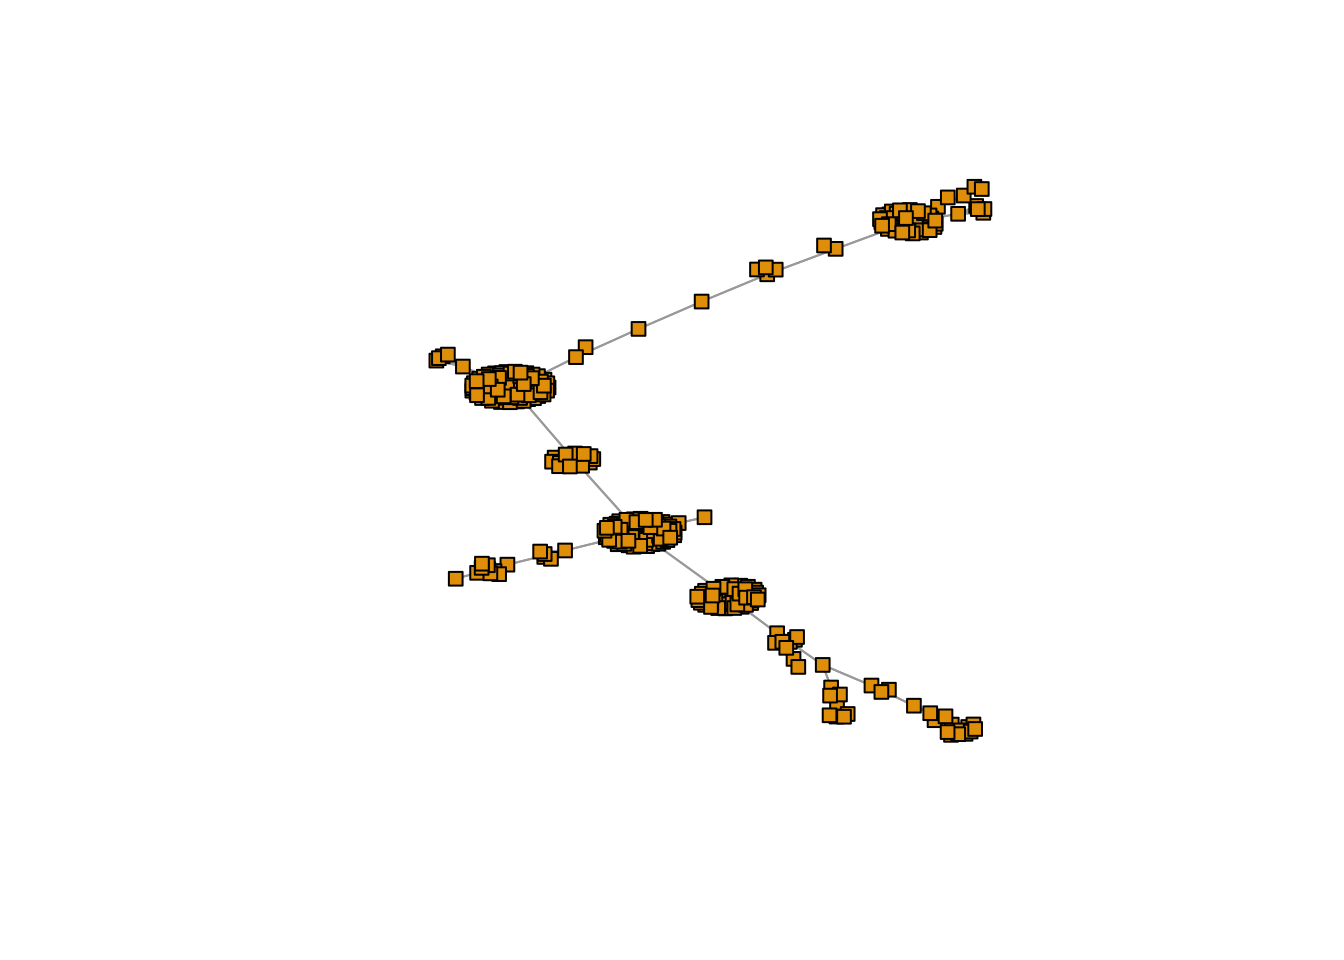
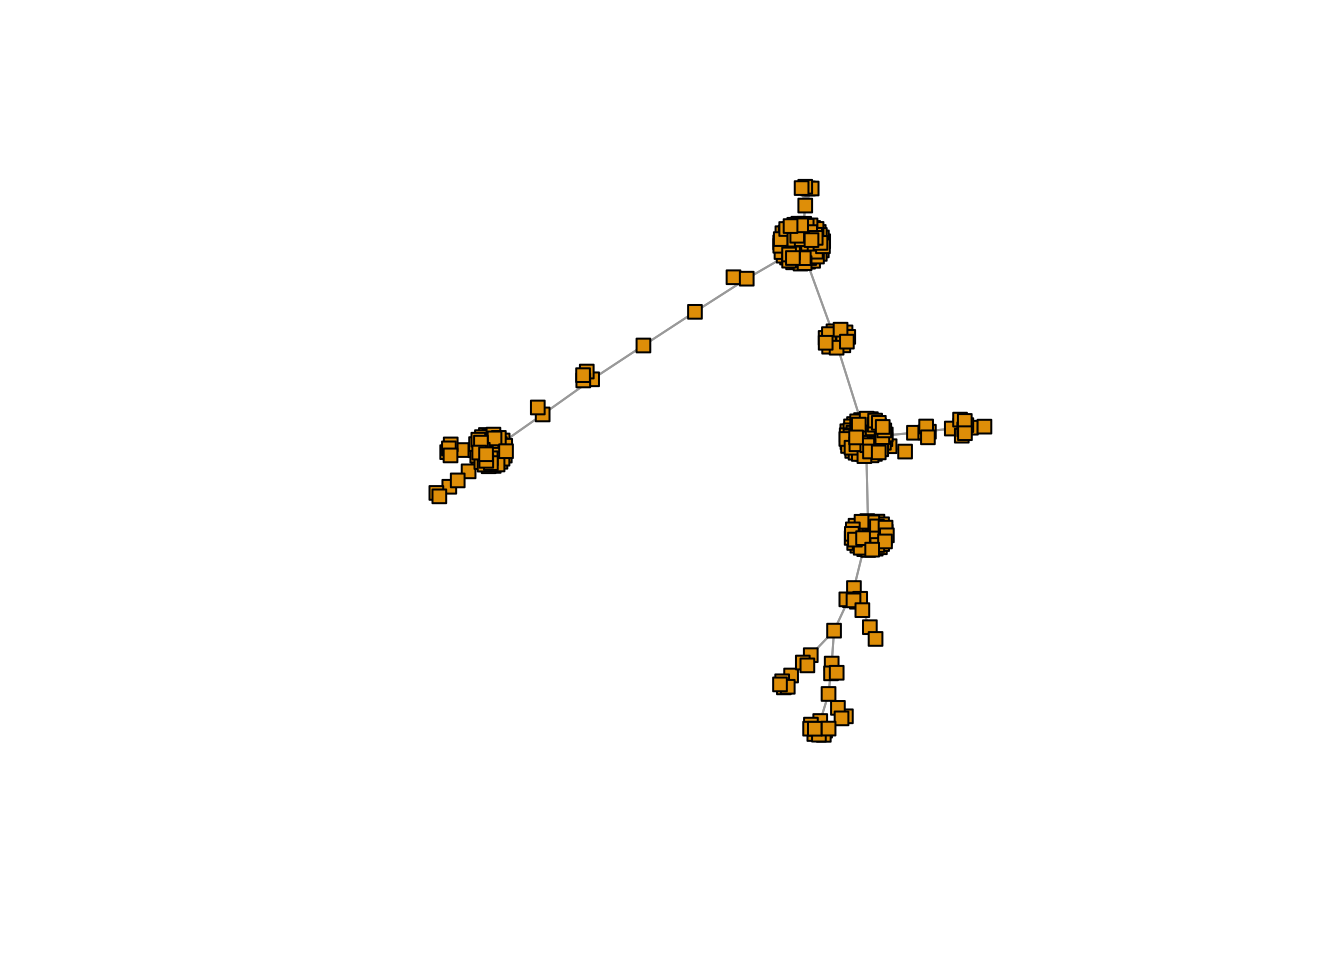
added graphical model with GoM coloring to index

diff --git a/docs/indonesian_birds_graphs.html b/docs/indonesian_birds_graphs.html
@@ -316,10 +316,18 @@ div.section {
 </div>
 
 
-<p>Here, we explore a graphical model connecting the different bird species in the Java, Bali, Lombok, Sumbawa areas.</p>
+<div id="intro" class="section level2">
+<h2>Intro</h2>
+<p>Here, we explore a graphical model connecting the different bird species in the Java, Bali, Lombok, Sumbawa areas in Indonesia. We here are interested in seeing how the clustering of bird species into communities by the GoM model matches with an independently generated graphical structure of the bird species.</p>
+</div>
+<div id="packages" class="section level2">
+<h2>Packages</h2>
 <pre class="r"><code>library(igraph)
 library(RColorBrewer)
 library(ape)</code></pre>
+</div>
+<div id="data" class="section level2">
+<h2>Data</h2>
 <pre class="r"><code>datalist &lt;- get(load(&quot;../data/wallace_region_pres_ab_breeding_no_seabirds.rda&quot;))
 latlong &lt;- datalist$loc
 data &lt;- datalist$dat
@@ -334,12 +342,13 @@ length(idx)</code></pre>
 birds_pa_data_2 &lt;- data[idx, ]
 birds_pa_data_3 &lt;- birds_pa_data_2[, which(colSums(birds_pa_data_2)!=0)]</code></pre>
 <pre class="r"><code>co_occur_mat &lt;- t(as.matrix(birds_pa_data_3)) %*% as.matrix(birds_pa_data_3)</code></pre>
+</div>
 <div id="minimal-spanning-tree-correlation" class="section level2">
 <h2>Minimal Spanning Tree (correlation)</h2>
 <pre class="r"><code>cor_dist &lt;- 1 - cov2cor(co_occur_mat)
 system.time(mst2 &lt;- ape::mst(cor_dist));</code></pre>
 <pre><code>##    user  system elapsed 
-##   5.401   0.320   5.742</code></pre>
+##   5.403   0.436   5.865</code></pre>
 <pre class="r"><code>mst2.graph &lt;- igraph::graph.adjacency(as.matrix(mst2));
 
 cols1 &lt;- c(RColorBrewer::brewer.pal(12, &quot;Paired&quot;)[c(3,4,7,8,11,12,5,6,9,10)],
@@ -355,15 +364,18 @@ plot(mst2.graph,
      layout= layout_with_fr
 )</code></pre>
 <p><img src="indonesian_birds_graphs_files/figure-html/unnamed-chunk-4-1.png" width="672" /></p>
+</div>
+<div id="coloring-by-gom-clusters" class="section level2">
+<h2>Coloring by GoM clusters</h2>
 <pre class="r"><code>topics_clust &lt;- get(load(&quot;../output/methClust_java_bali_lombok.rda&quot;))</code></pre>
 <pre class="r"><code>cols1 &lt;- c(RColorBrewer::brewer.pal(12, &quot;Paired&quot;)[c(3,4,7,8,11,12,5,6,9,10)],
            RColorBrewer::brewer.pal(12, &quot;Set3&quot;)[c(1,2,5,8,9)],
            RColorBrewer::brewer.pal(9, &quot;Set1&quot;)[c(9,7)],
-           RColorBrewer::brewer.pal(8, &quot;Dark2&quot;)[c(3,4,8)])
-
-for(k in 2:4){
-  freq &lt;- topics_clust[[k]]$freq
-  max_clus &lt;- apply(freq, 1, function(x) which.max(x))
+           RColorBrewer::brewer.pal(8, &quot;Dark2&quot;)[c(3,4,8)])</code></pre>
+<div id="k-2" class="section level3">
+<h3>K = 2</h3>
+<pre class="r"><code>freq &lt;- topics_clust[[2]]$freq
+max_clus &lt;- apply(freq, 1, function(x) which.max(x))
 
 plot(mst2.graph,
      edge.arrow.mode=0,
@@ -372,10 +384,66 @@ plot(mst2.graph,
      vertex.label=NA,
      vertex.color=cols1[as.numeric(max_clus) + 1],
      layout= layout_with_kk
-)
- 
-}</code></pre>
-<p><img src="indonesian_birds_graphs_files/figure-html/unnamed-chunk-6-1.png" width="672" /><img src="indonesian_birds_graphs_files/figure-html/unnamed-chunk-6-2.png" width="672" /><img src="indonesian_birds_graphs_files/figure-html/unnamed-chunk-6-3.png" width="672" /></p>
+)</code></pre>
+<p><img src="indonesian_birds_graphs_files/figure-html/unnamed-chunk-7-1.png" width="672" /></p>
+</div>
+<div id="k-3" class="section level3">
+<h3>K = 3</h3>
+<pre class="r"><code>freq &lt;- topics_clust[[3]]$freq
+max_clus &lt;- apply(freq, 1, function(x) which.max(x))
+
+plot(mst2.graph,
+     edge.arrow.mode=0,
+     vertex.size = 5,
+     vertex.shape=&quot;square&quot;,
+     vertex.label=NA,
+     vertex.color=cols1[as.numeric(max_clus) + 1],
+     layout= layout_with_kk
+)</code></pre>
+<p><img src="indonesian_birds_graphs_files/figure-html/unnamed-chunk-8-1.png" width="672" /></p>
+</div>
+<div id="k-4" class="section level3">
+<h3>K = 4</h3>
+<pre class="r"><code>freq &lt;- topics_clust[[4]]$freq
+max_clus &lt;- apply(freq, 1, function(x) which.max(x))
+
+plot(mst2.graph,
+     edge.arrow.mode=0,
+     vertex.size = 5,
+     vertex.shape=&quot;square&quot;,
+     vertex.label=NA,
+     vertex.color=cols1[as.numeric(max_clus) + 1],
+     layout= layout_with_kk
+)</code></pre>
+<p><img src="indonesian_birds_graphs_files/figure-html/unnamed-chunk-9-1.png" width="672" /></p>
+</div>
+</div>
+<div id="sessioninfo" class="section level2">
+<h2>SessionInfo</h2>
+<pre class="r"><code>sessionInfo()</code></pre>
+<pre><code>## R version 3.4.4 (2018-03-15)
+## Platform: x86_64-apple-darwin15.6.0 (64-bit)
+## Running under: macOS Sierra 10.12.6
+## 
+## Matrix products: default
+## BLAS: /Library/Frameworks/R.framework/Versions/3.4/Resources/lib/libRblas.0.dylib
+## LAPACK: /Library/Frameworks/R.framework/Versions/3.4/Resources/lib/libRlapack.dylib
+## 
+## locale:
+## [1] en_US.UTF-8/en_US.UTF-8/en_US.UTF-8/C/en_US.UTF-8/en_US.UTF-8
+## 
+## attached base packages:
+## [1] stats     graphics  grDevices utils     datasets  methods   base     
+## 
+## other attached packages:
+## [1] ape_5.0            RColorBrewer_1.1-2 igraph_1.1.2      
+## 
+## loaded via a namespace (and not attached):
+##  [1] Rcpp_0.12.16    lattice_0.20-35 digest_0.6.15   rprojroot_1.3-2
+##  [5] grid_3.4.4      nlme_3.1-131.1  backports_1.1.2 magrittr_1.5   
+##  [9] evaluate_0.10.1 stringi_1.1.6   rmarkdown_1.9   tools_3.4.4    
+## [13] stringr_1.3.0   parallel_3.4.4  yaml_2.1.18     compiler_3.4.4 
+## [17] pkgconfig_2.0.1 htmltools_0.3.6 knitr_1.20</code></pre>
 </div>
 
 <!-- Adjust MathJax settings so that all math formulae are shown using

diff --git a/docs/index.html b/docs/index.html
@@ -235,6 +235,10 @@ div.section {
 <ul>
 <li><a href="java_bali_lombok_analysis.html"><em>analysis</em></a></li>
 </ul></li>
+<li><strong>Graphical Model on bird species with GoM coloring</strong>
+<ul>
+<li><a href="indonesian_birds_graphs.html"><em>Indonesian bird species</em></a></li>
+</ul></li>
 </ul>
 
 <!-- Adjust MathJax settings so that all math formulae are shown using
